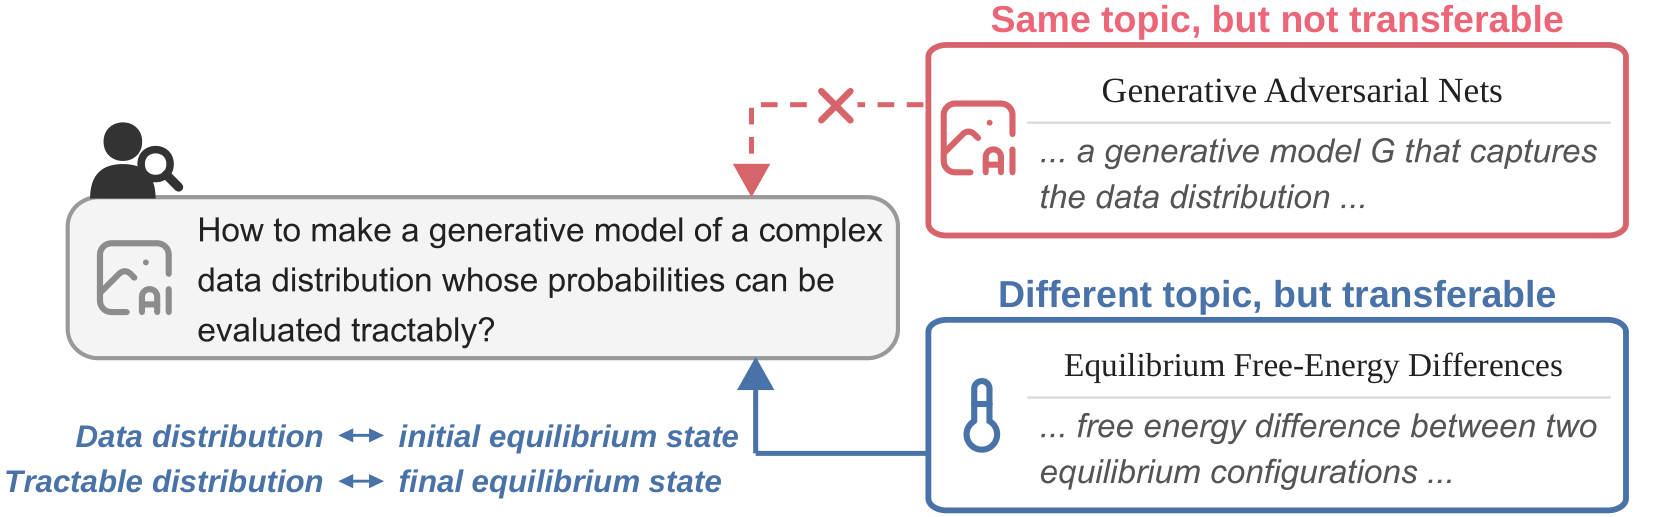
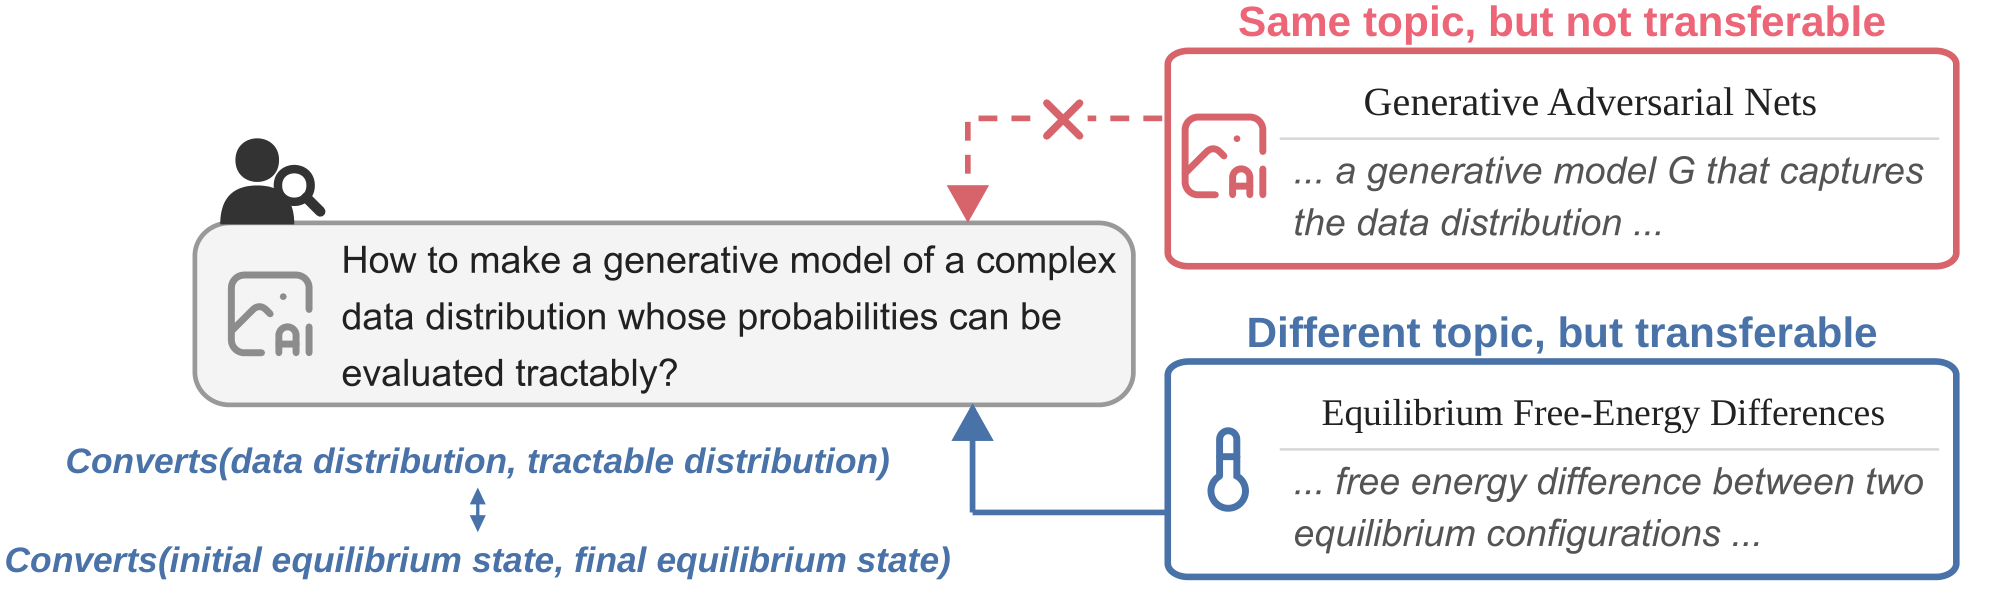
Update both README figures to the latest paper versions (Figure 1 landscape, Figure 2 example) and show them from assets/

Changed region(s): [[0.0, 0.0, 0.9994, 1.0]]

diff --git a/README.md b/README.md
@@ -44,7 +44,7 @@ for line in open(f"{EVAL_DIR}/eval_texts.jsonl"):
 
 ## Overview
 
-![CPR-eval spans all four OpenAlex domains](https://huggingface.co/datasets/CPR-Dataset/CPR-Dataset/resolve/main/assets/fig_landscape.png)
+![CPR-eval spans all four OpenAlex domains](assets/fig_landscape.png)
 
 Many scientific advances come from *cross-pollination*: carrying an idea from one field over to a problem in another. Yet existing
 retrievers return papers that are semantically similar to the query, and benchmarks for finding papers that inspire research keep
@@ -55,7 +55,7 @@ We introduce **cross-pollination retrieval**: given a research problem, find pap
 to it. We build **CPR-Dataset** with a scalable pipeline that mines citations through which a paper transferred an idea from another
 topic. **CPR-eval** has **1,300 queries across 26 fields**, and **CPR-train** has **10,573 training pairs**.
 
-![An example of cross-pollination retrieval](https://huggingface.co/datasets/CPR-Dataset/CPR-Dataset/resolve/main/assets/fig_example.png)
+![An example of cross-pollination retrieval](assets/fig_example.png)
 
 For the query above, a paper on the same topic (Generative Adversarial Nets) does not offer what the query needs. A paper on another
 topic, equilibrium free-energy differences in statistical physics, does: the data distribution maps to an initial equilibrium state
